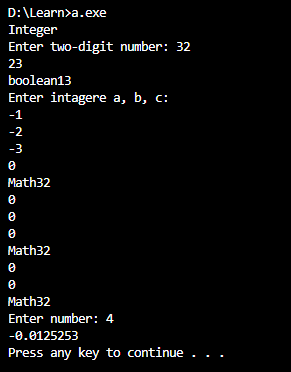
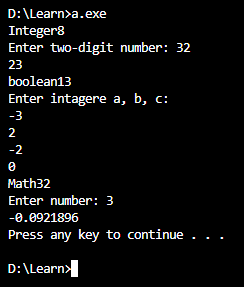
Add files via upload

diff --git a/program.cpp b/program.cpp
@@ -6,7 +6,7 @@ using namespace std;
 // виконання завдання Integer8, boolean13, Math32
 int main()
 {
-    cout << "Integer" << endl; // Integer8
+    cout << "Integer8" << endl; // Integer8
 
     int twoDigit; // двозначне число
     int result; // кінцевий результат
